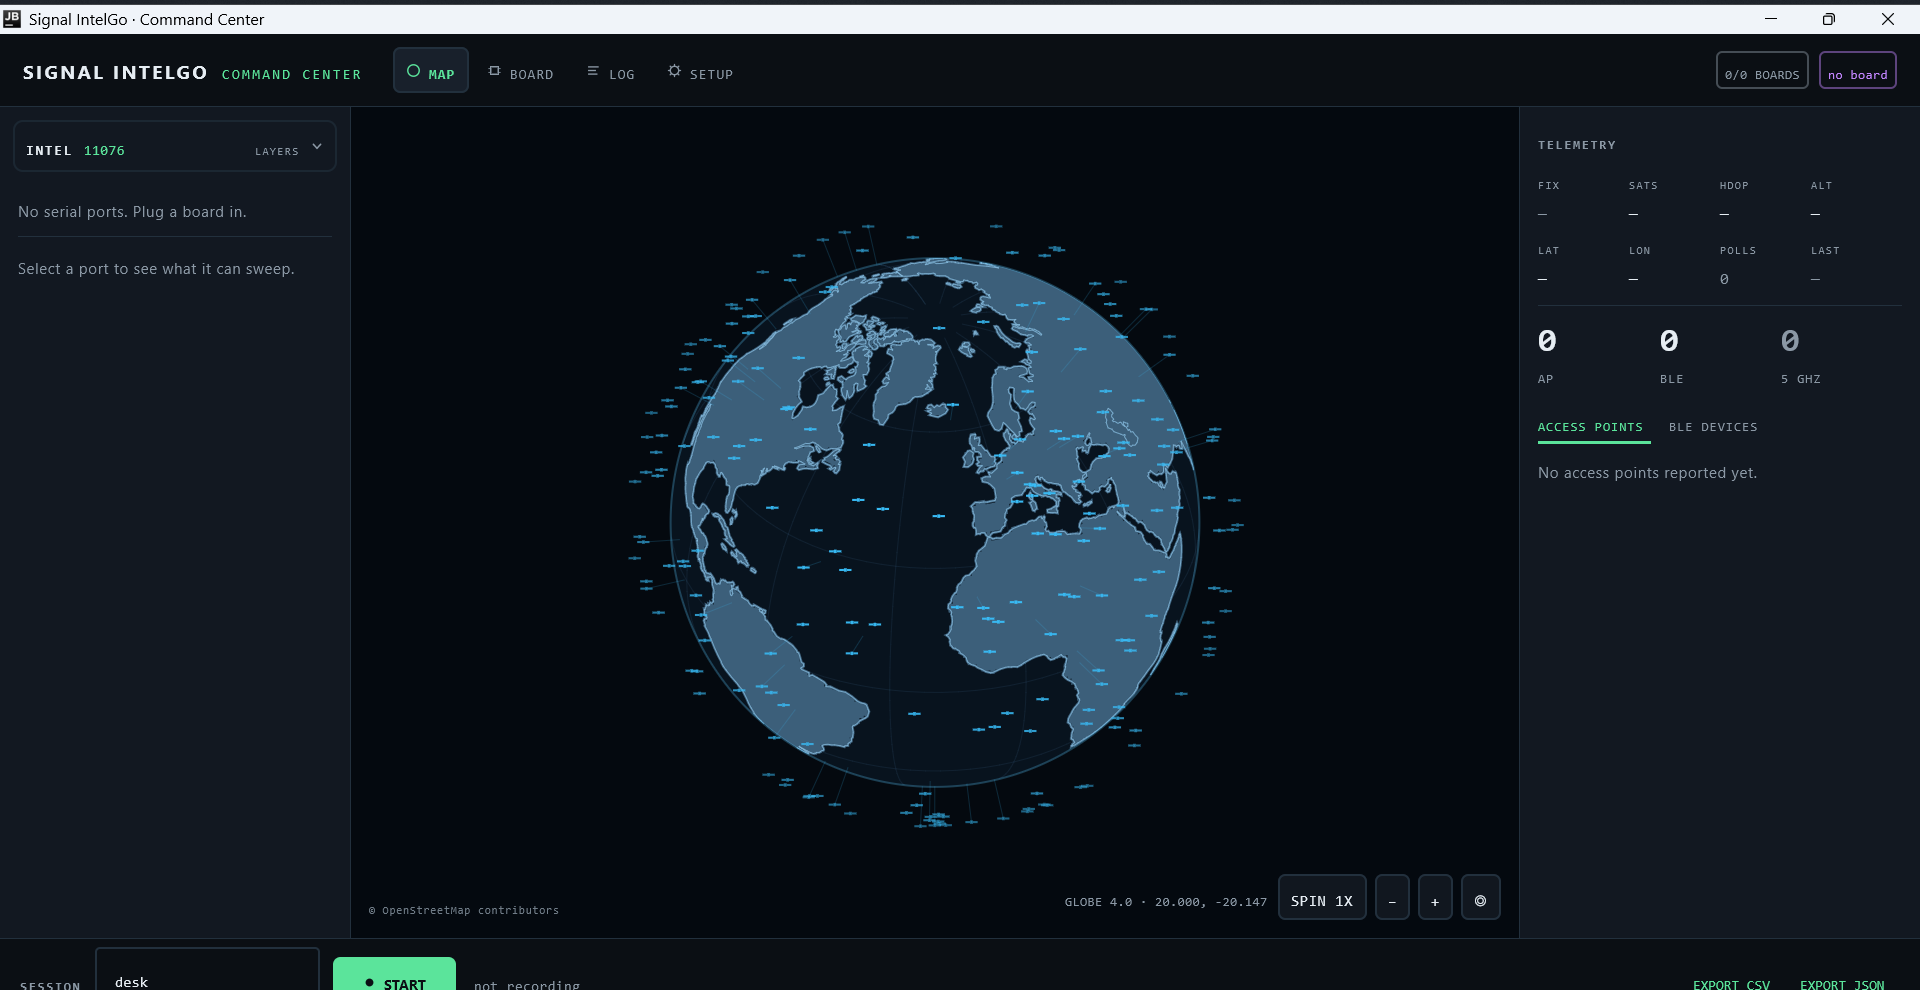
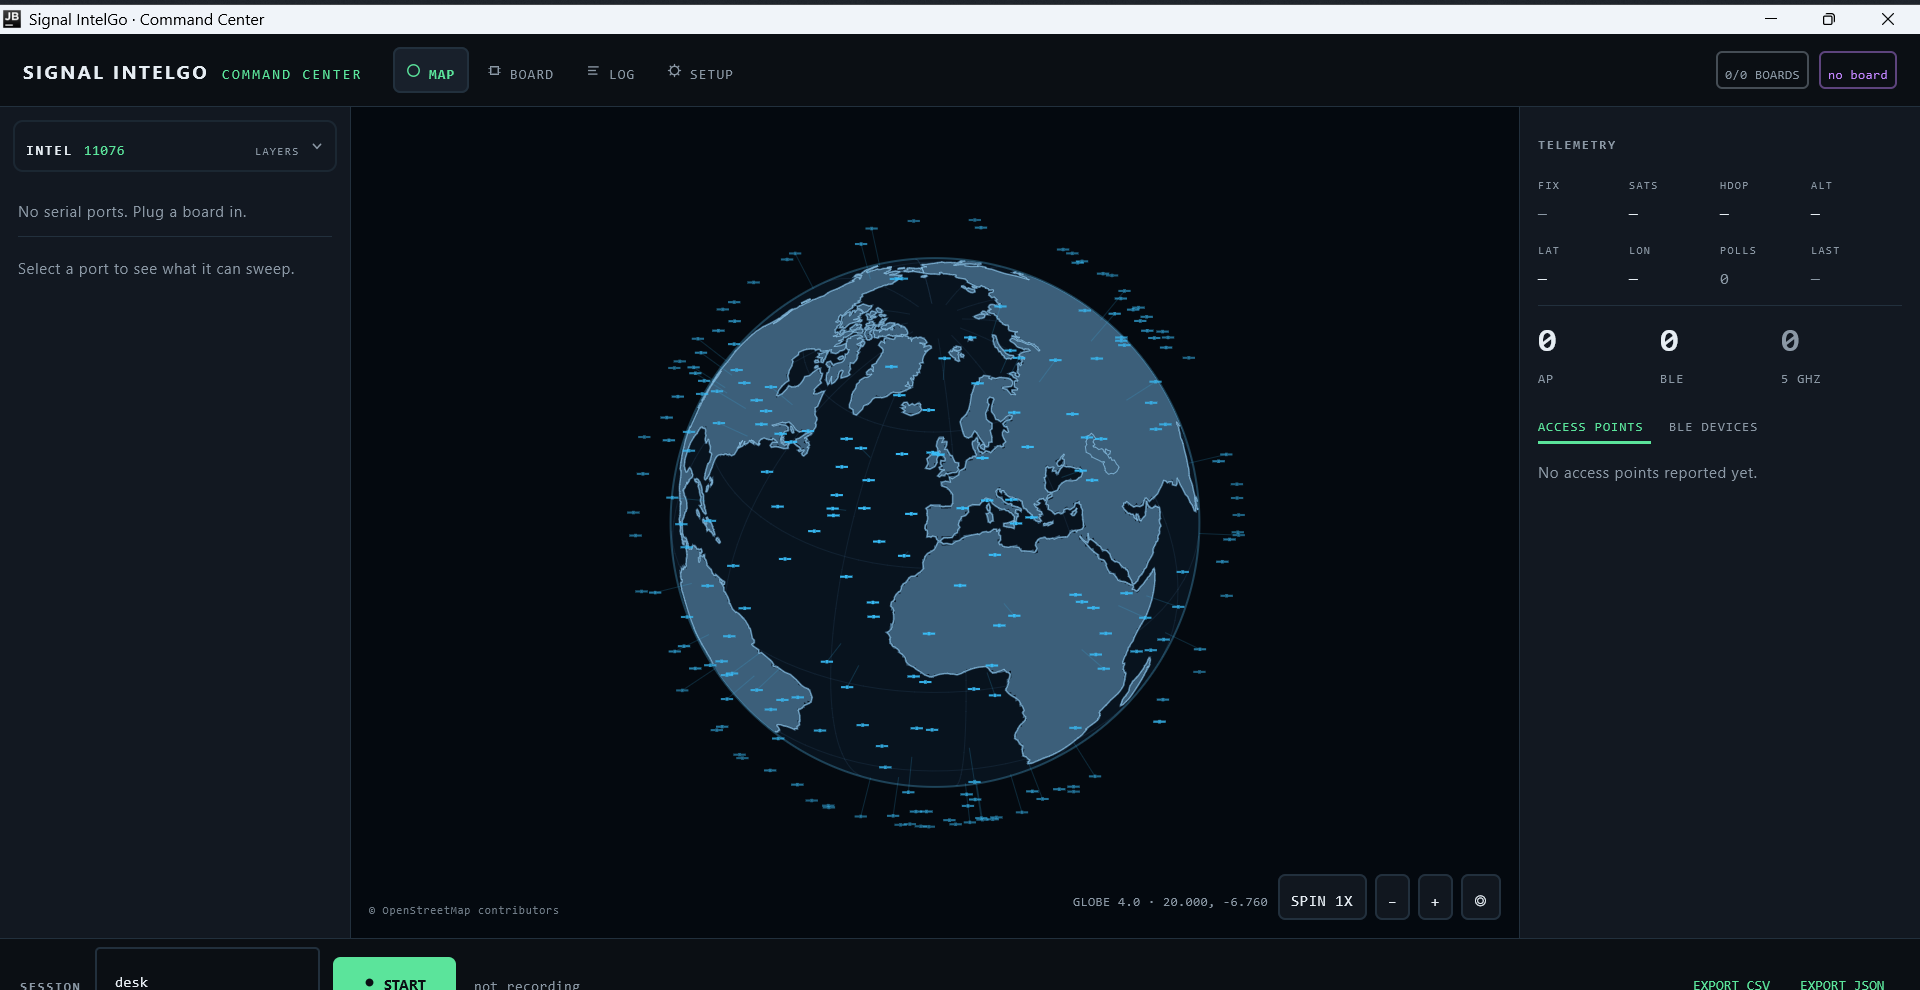
Stop the coast strokes piling up into a pale band at the globe's limb.
On the last degrees before the limb the projection squeezes whole degrees into a couple of pixels,
so coast runs drawn right up to the edge stacked into a land-coloured halo around the ball. The
strokes now stop just short of the edge while the fill still reaches the rim, so the land meets the
disc the way it does on the phone and no dark ring is left behind.

diff --git a/desktop/src/main/java/dev/skyward/rf/desktop/ui/MapView.kt b/desktop/src/main/java/dev/skyward/rf/desktop/ui/MapView.kt
@@ -613,7 +613,10 @@ private fun DrawScope.drawGlobeSphere(
         }
 
         val coast = Path()
-        val HORIZON = 0.02f
+        // Stopped short of the exact limb: on the last degree before it the projection
+        // squeezes whole degrees into a couple of pixels, so a 2dp coast stroke there piles
+        // up into a pale land-coloured band that reads as a halo around the ball.
+        val HORIZON = 0.10f
         for (ring in rings) {
             val n = ring.size / 2
             if (n < 3) continue
@@ -706,7 +709,7 @@ private fun DrawScope.drawGlobeSphere(
         // The fill ends on a one-degree staircase. Stroking the coast in the land colour first
         // covers the steps, so the land ends where the outline says it does, and the pale line
         // then reads as the coast itself.
-        drawPath(coast, Color(0xFF3C5F7A).copy(alpha = alpha), style = Stroke(width = 2.2.dp.toPx()))
+        drawPath(coast, Color(0xFF3C5F7A).copy(alpha = alpha), style = Stroke(width = 1.8.dp.toPx()))
         drawPath(coast, Color(0xFF86BCDF).copy(alpha = 0.8f * alpha), style = Stroke(width = 0.8.dp.toPx()))
     }
 
@@ -844,6 +847,8 @@ private fun DrawScope.drawLandMesh(
             val c = a + cols
             val d = c + 1
             // A cell reaching past the limb would drag a sliver of land across the disc.
+            // Cells are kept right up to the limb, so the land meets the rim as it does on the
+            // phone: cutting them short left a dark ring of ocean between the coast and the edge.
             if (depth[a] <= 0.02f || depth[b] <= 0.02f || depth[c] <= 0.02f || depth[d] <= 0.02f) continue
             land.moveTo(xs[a], ys[a])
             land.lineTo(xs[b], ys[b])
